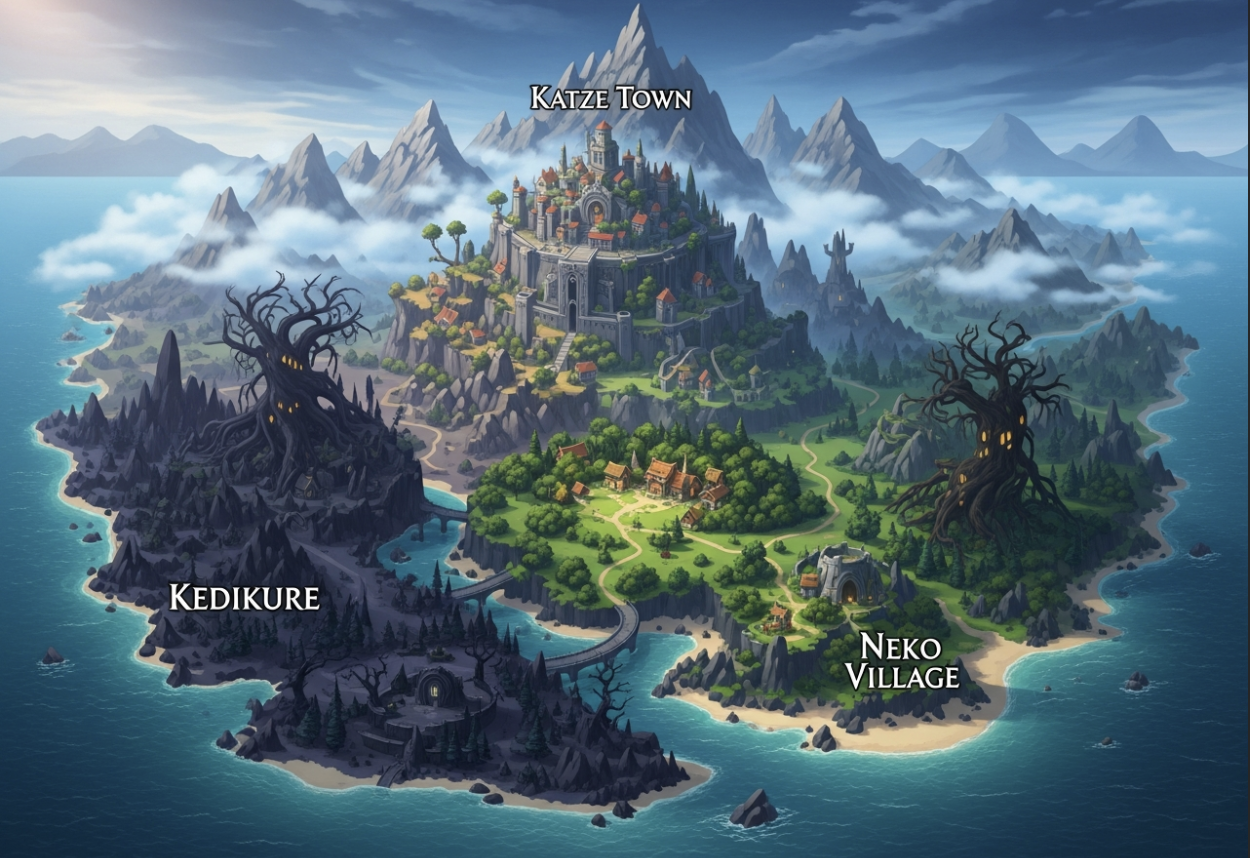
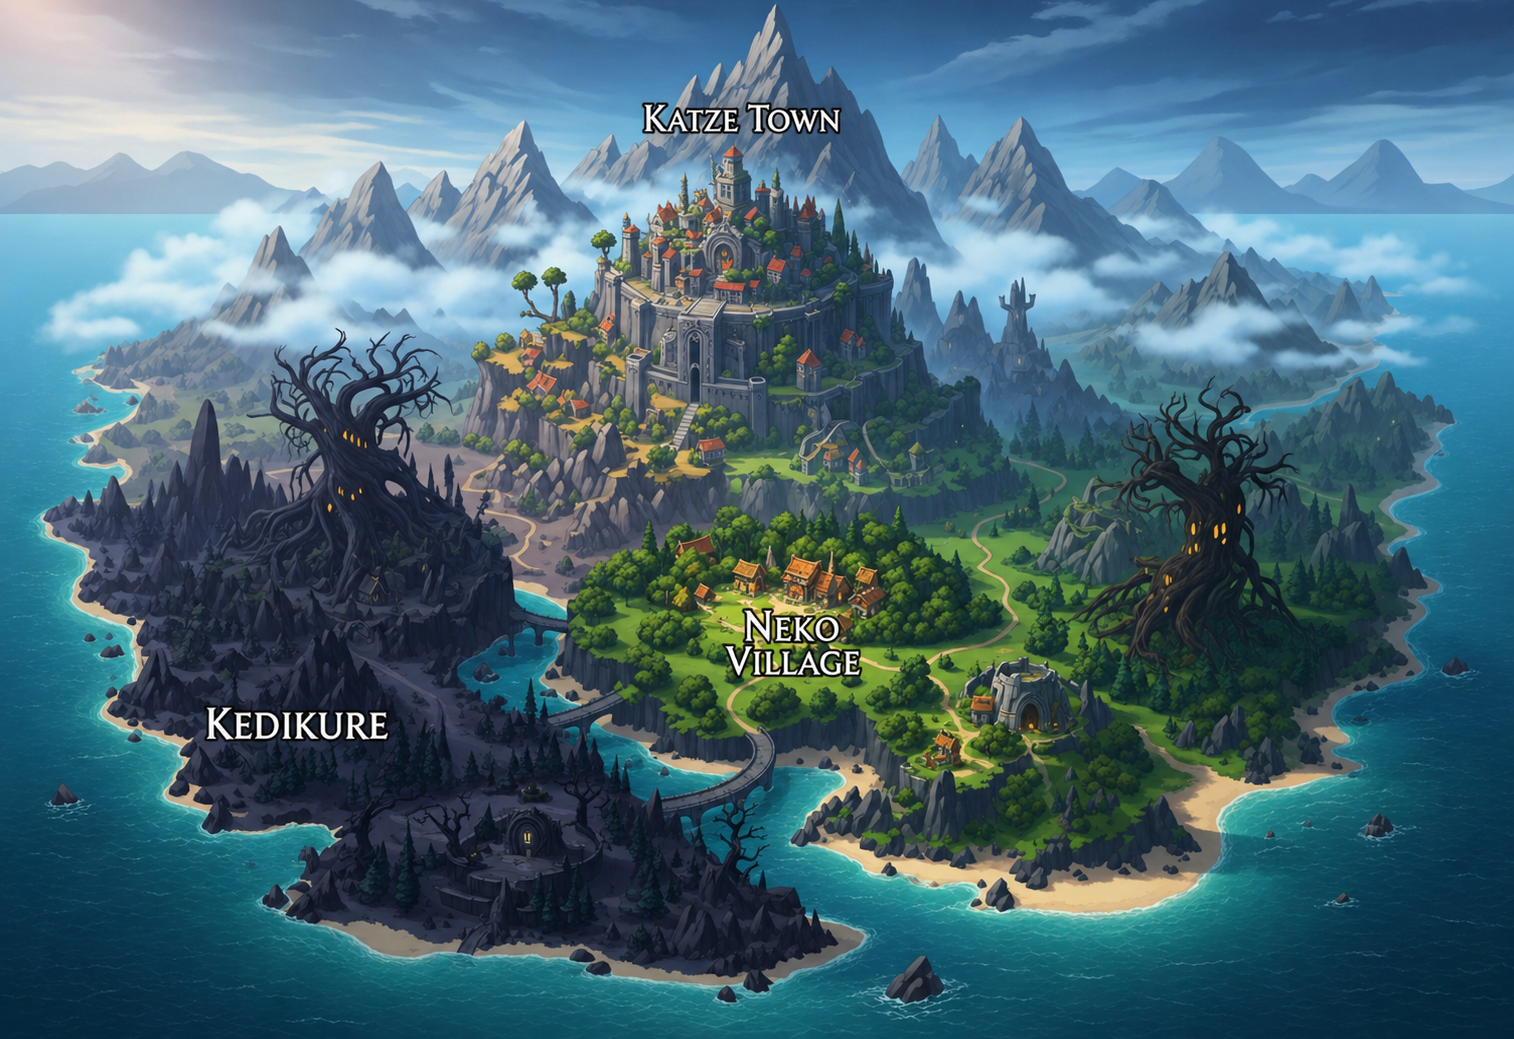
Fixed CatMon world map & added images of the 3 CatMon adventures and implemented them

diff --git a/frontend/src/app/feature/story-player/kirmon-adventure/kirmon-adventure.html b/frontend/src/app/feature/story-player/kirmon-adventure/kirmon-adventure.html
@@ -161,6 +161,7 @@
           <ng-container *ngIf="!swapped; else stage3Swapped">
             <div class="choice-card" (click)="choose(1)">
               <div class="choice-card-content">
+                <img src="/MindflayerSpr26/nekoVillage.png" alt="Neko Village" class="town-image">
                 <h4>Travel to Neko Village</h4>
                 <p>Head into Cattail Forest to challenge RutoMon and test your control against emotion-fueled pressure.</p>
                 <button class="select-button">Choose this path</button>
@@ -168,6 +169,7 @@
             </div>
             <div class="choice-card" (click)="choose(2)">
               <div class="choice-card-content">
+                <img src="/MindflayerSpr26/kedikure.png" alt="Kedikure" class="town-image">
                 <h4>Travel to Kedikure</h4>
                 <p>Cross south to challenge MaruMon and test your endurance against resistance-forged tactics.</p>
                 <button class="select-button">Choose this path</button>
@@ -177,6 +179,7 @@
           <ng-template #stage3Swapped>
             <div class="choice-card" (click)="choose(1)">
               <div class="choice-card-content">
+                <img src="/MindflayerSpr26/kedikure.png" alt="Kedikure" class="town-image">
                 <h4>Travel to Kedikure</h4>
                 <p>Cross south to challenge MaruMon and test your endurance against resistance-forged tactics.</p>
                 <button class="select-button">Choose this path</button>
@@ -184,6 +187,7 @@
             </div>
             <div class="choice-card" (click)="choose(2)">
               <div class="choice-card-content">
+                <img src="/MindflayerSpr26/nekoVillage.png" alt="Neko Village" class="town-image">
                 <h4>Travel to Neko Village</h4>
                 <p>Head into Cattail Forest to challenge RutoMon and test your control against emotion-fueled pressure.</p>
                 <button class="select-button">Choose this path</button>

diff --git a/frontend/src/app/feature/story-player/narmon-adventure/narmon-adventure.html b/frontend/src/app/feature/story-player/narmon-adventure/narmon-adventure.html
@@ -146,6 +146,7 @@
           <ng-container *ngIf="!swapped; else stage3Swapped">
             <div class="choice-card" (click)="choose(1)">
               <div class="choice-card-content">
+                <img src="/MindflayerSpr26/kedikure.png" alt="Kedikure" class="town-image">
                 <h4>Travel to Kedikure</h4>
                 <p>Meet MaruMon and test your composure against pressure shaped by hardship and resistance.</p>
                 <button class="select-button">Choose this path</button>
@@ -153,6 +154,7 @@
             </div>
             <div class="choice-card" (click)="choose(2)">
               <div class="choice-card-content">
+                <img src="/MindflayerSpr26/katzeTown.png" alt="Katze Town" class="town-image">
                 <h4>Travel to Katze Town</h4>
                 <p>Meet IneMon and challenge your timing against the northern discipline forged in endless winter.</p>
                 <button class="select-button">Choose this path</button>
@@ -162,6 +164,7 @@
           <ng-template #stage3Swapped>
             <div class="choice-card" (click)="choose(1)">
               <div class="choice-card-content">
+                <img src="/MindflayerSpr26/katzeTown.png" alt="Katze Town" class="town-image">
                 <h4>Travel to Katze Town</h4>
                 <p>Meet IneMon and challenge your timing against the northern discipline forged in endless winter.</p>
                 <button class="select-button">Choose this path</button>
@@ -169,6 +172,7 @@
             </div>
             <div class="choice-card" (click)="choose(2)">
               <div class="choice-card-content">
+                <img src="/MindflayerSpr26/kedikure.png" alt="Kedikure" class="town-image">
                 <h4>Travel to Kedikure</h4>
                 <p>Meet MaruMon and test your composure against pressure shaped by hardship and resistance.</p>
                 <button class="select-button">Choose this path</button>

diff --git a/frontend/src/app/feature/story-player/shikamon-adventure/shikamon-adventure.html b/frontend/src/app/feature/story-player/shikamon-adventure/shikamon-adventure.html
@@ -146,6 +146,7 @@
           <ng-container *ngIf="!swapped; else stage3Swapped">
             <div class="choice-card" (click)="choose(1)">
               <div class="choice-card-content">
+                <img src="/MindflayerSpr26/katzeTown.png" alt="Katze Town" class="town-image">
                 <h4>Travel to Katze Town</h4>
                 <p>Face IneMon and test whether Kedikure's resistance tactics can crack mountain discipline.</p>
                 <button class="select-button">Choose this path</button>
@@ -153,6 +154,7 @@
             </div>
             <div class="choice-card" (click)="choose(2)">
               <div class="choice-card-content">
+                <img src="/MindflayerSpr26/nekoVillage.png" alt="Neko Village" class="town-image">
                 <h4>Travel to Neko Village</h4>
                 <p>Face RutoMon and endure emotion-charged bursts from the Cattail Forest style.</p>
                 <button class="select-button">Choose this path</button>
@@ -162,6 +164,7 @@
           <ng-template #stage3Swapped>
             <div class="choice-card" (click)="choose(1)">
               <div class="choice-card-content">
+                <img src="/MindflayerSpr26/nekoVillage.png" alt="Neko Village" class="town-image">
                 <h4>Travel to Neko Village</h4>
                 <p>Face RutoMon and endure emotion-charged bursts from the Cattail Forest style.</p>
                 <button class="select-button">Choose this path</button>
@@ -169,6 +172,7 @@
             </div>
             <div class="choice-card" (click)="choose(2)">
               <div class="choice-card-content">
+                <img src="/MindflayerSpr26/katzeTown.png" alt="Katze Town" class="town-image">
                 <h4>Travel to Katze Town</h4>
                 <p>Face IneMon and test whether Kedikure's resistance tactics can crack mountain discipline.</p>
                 <button class="select-button">Choose this path</button>

diff --git a/frontend/src/app/feature/story-player/kirmon-adventure/kirmon-adventure.css b/frontend/src/app/feature/story-player/kirmon-adventure/kirmon-adventure.css
@@ -119,6 +119,15 @@
 
 .choice-card-content { padding: 1.5rem; text-align: center; color: #fff; }
 
+.town-image {
+  width: 100%;
+  max-height: 170px;
+  object-fit: cover;
+  border-radius: 10px;
+  margin-bottom: 1rem;
+  border: 2px solid #57c1ff;
+}
+
 .choice-card h4 { font-size: 1.5rem; margin-bottom: 1rem; font-weight: bold; }
 
 .choice-card p { font-size: 1rem; margin-bottom: 1.5rem; line-height: 1.5; }

diff --git a/frontend/src/app/feature/story-player/narmon-adventure/narmon-adventure.css b/frontend/src/app/feature/story-player/narmon-adventure/narmon-adventure.css
@@ -113,6 +113,15 @@
 
 .choice-card-content { padding: 1.5rem; text-align: center; color: #fff; }
 
+.town-image {
+  width: 100%;
+  max-height: 170px;
+  object-fit: cover;
+  border-radius: 10px;
+  margin-bottom: 1rem;
+  border: 2px solid #fdff97;
+}
+
 .choice-card h4 { font-size: 1.5rem; margin-bottom: 1rem; font-weight: bold; }
 
 .choice-card p { font-size: 1rem; margin-bottom: 1.5rem; line-height: 1.5; }

diff --git a/frontend/src/app/feature/story-player/shikamon-adventure/shikamon-adventure.css b/frontend/src/app/feature/story-player/shikamon-adventure/shikamon-adventure.css
@@ -113,6 +113,15 @@
 
 .choice-card-content { padding: 1.5rem; text-align: center; color: #fff; }
 
+.town-image {
+  width: 100%;
+  max-height: 170px;
+  object-fit: cover;
+  border-radius: 10px;
+  margin-bottom: 1rem;
+  border: 2px solid #b58dfc;
+}
+
 .choice-card h4 { font-size: 1.5rem; margin-bottom: 1rem; font-weight: bold; }
 
 .choice-card p { font-size: 1rem; margin-bottom: 1.5rem; line-height: 1.5; }
